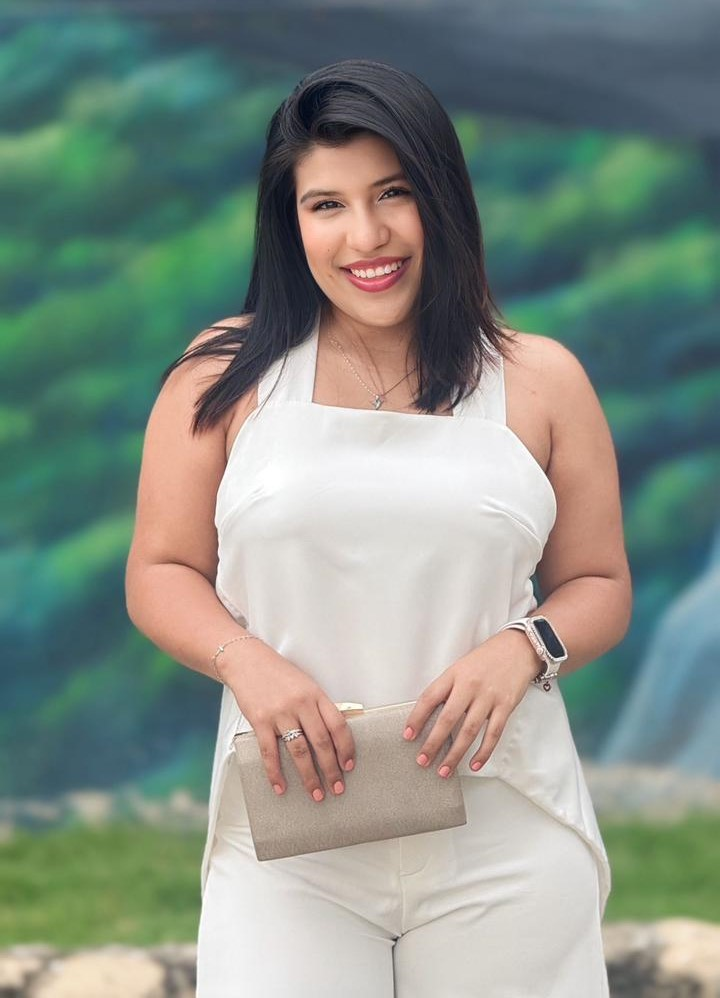
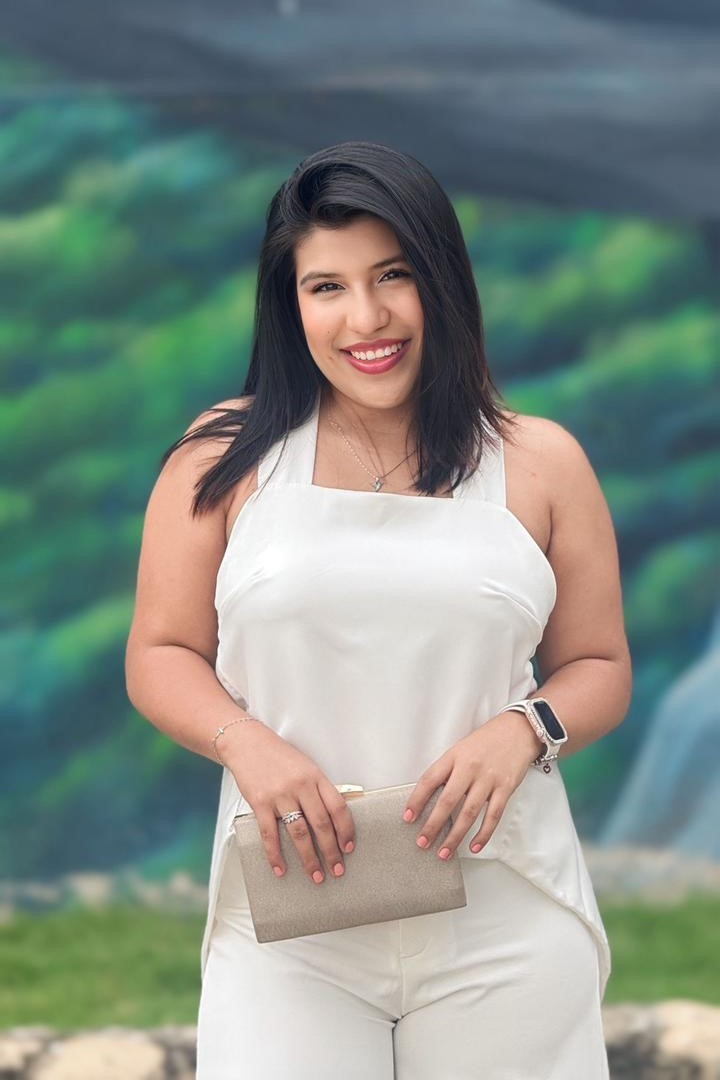
corregido funcional

diff --git a/index.html b/index.html
@@ -305,7 +305,8 @@
 
         <div class="fnd-card">
           <div class="fnd-img-wrap">
-            <img src="foto_presidencia.jpeg" alt="Yerly Karina Ramos Figueredo">
+            <img src="foto presidencia.jpeg" alt="Yerly Karina Ramos Figueredo"
+                 style="object-position: center 12%; transform: scale(1.55); transform-origin: center 22%;">
           </div>
           <div class="fnd-body">
             <div class="fnd-name">Yerly Karina Ramos Figueredo</div>

diff --git a/styles.css b/styles.css
@@ -482,7 +482,7 @@ img   { max-width: 100%; display: block; }
   border: 1px solid var(--border);
   border-radius: var(--rl);
   overflow: hidden;
-  text-align: center;
+  text-align: top;
   box-shadow: var(--sh);
   transition: all .3s;
 }
